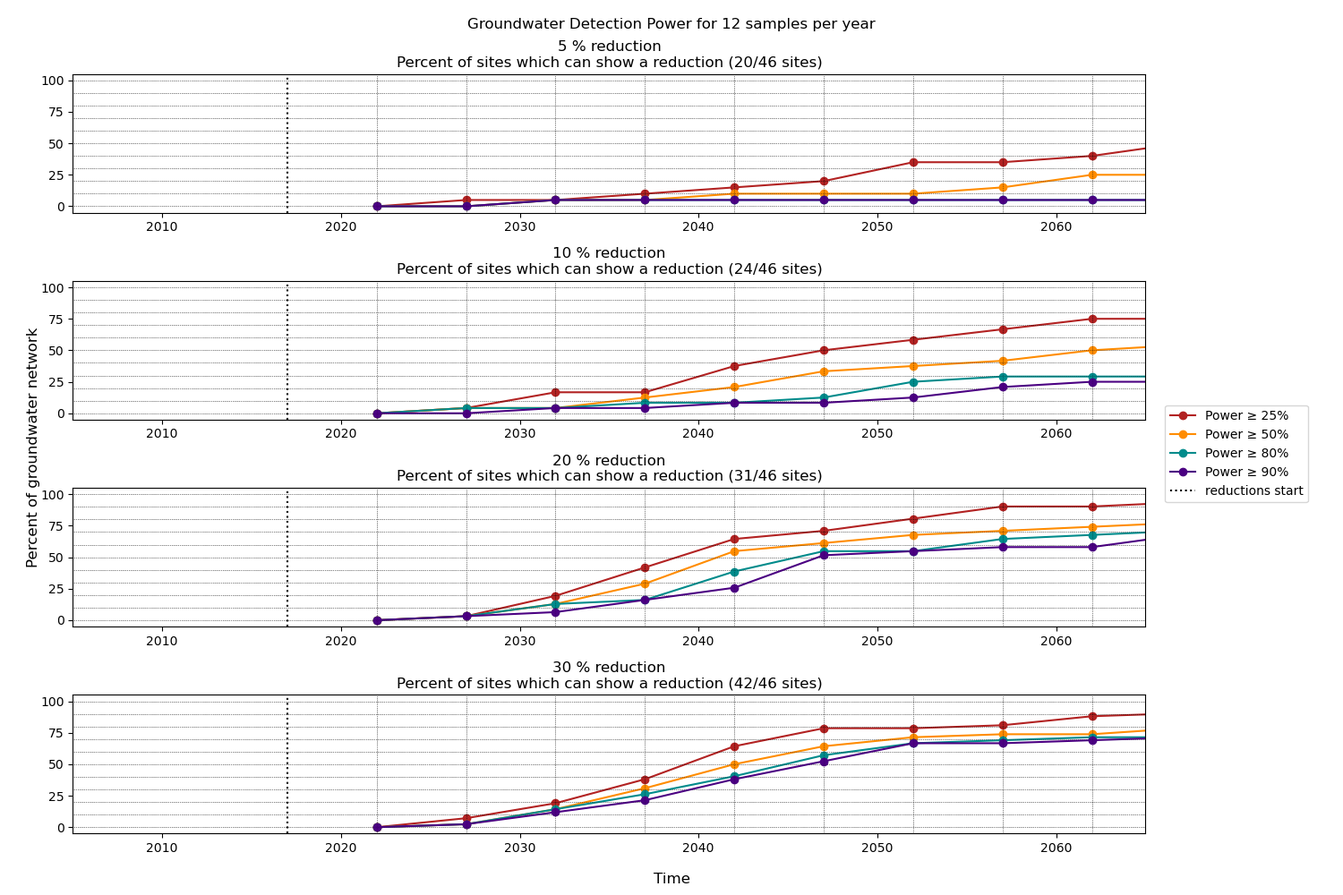
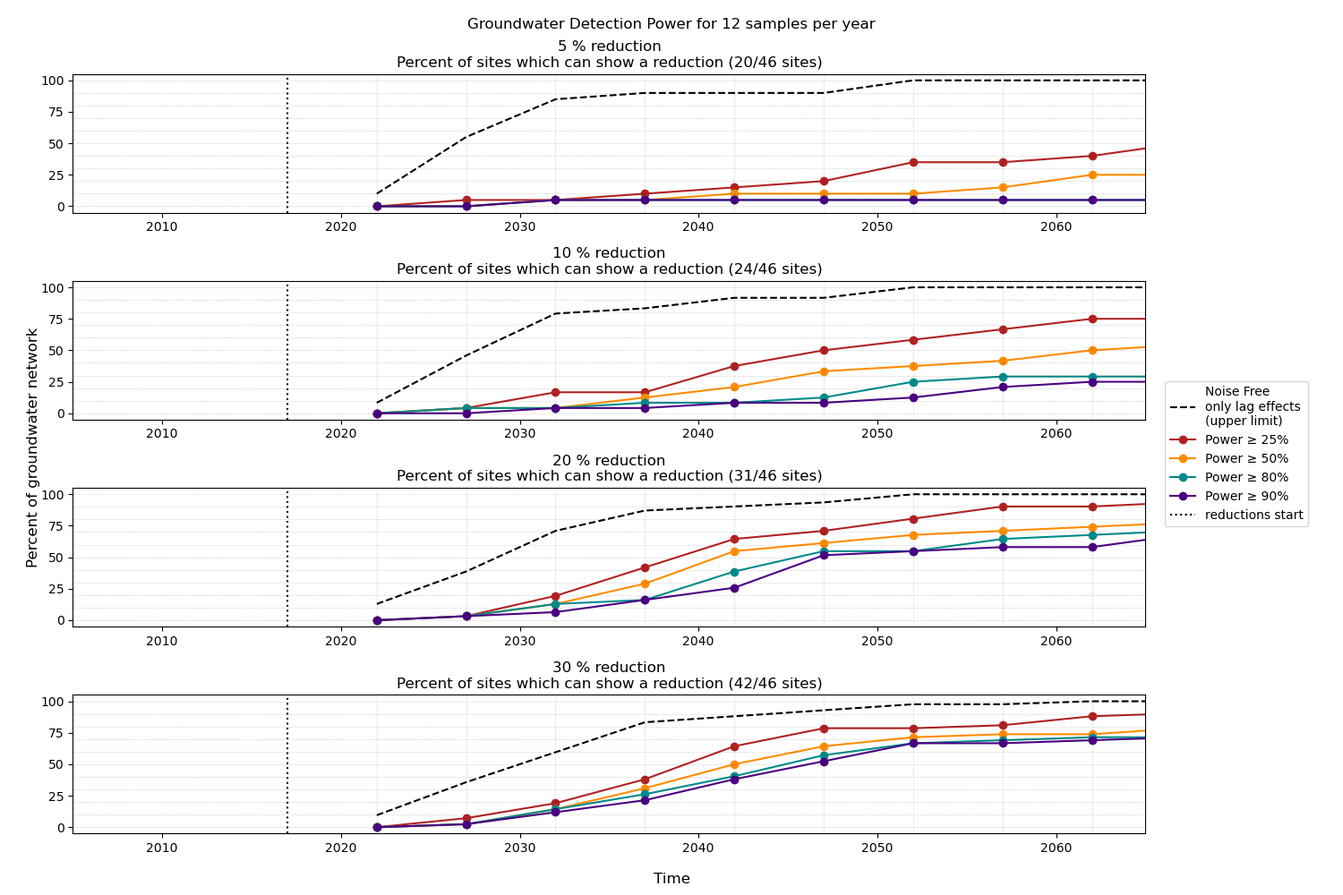
finish methods and results and formating

diff --git a/final_report_tex/custom_sections/results_discussion.tex b/final_report_tex/custom_sections/results_discussion.tex
@@ -3,52 +3,91 @@
 
 \section[Results and Discussion]{Results and Discussion} \label{sec:results}
 
-
+%--------------------------------------------------------------------------------------------------------------
 \subsection[Site results]{Results for Individual Sites} \label{sec:site_results}
 
-We have produced results and figures for each site.  It is beyond the scope of this report to discuss the detection power of each site; however all figures are available in the \gls{proj_repo}. An example of the individual site detection power plots is shown in \autoref{fig:ex_plot}. The figure details the detection power of site M36/3588 assuming a 30\% reduction in nitrate concentrations.  There are two subplots; for both the x-axis is the sampling duration/date. For the top plot the y-axis is \gls{no3n} concentration (mg/l).  The raw sample data and whether those data were included in the analysis (blue included, red/black not included), the predicted source concentration (yellow), the predicted receptor concentration with (gold) and without the implemented reduction (fuchsia). In the lower subplot the y-axis depicts the likelihood that a change in nitrate concentrations will be detected.  The color of the line represents the sampling frequency (e.g. monthly, quarterly, etc.).  Note that the grey line is the detection power assuming no noise (e.g. lag only or an infinite sampling frequency).  The correct interpretation of this plot is that this well would only be able to theoretically detect a change at or after 2027 (grey line).  With quarterly sampling however the noise of the site is such that the detection power is only likely to exceed 80\% in 2037 (gold line).
+
+\begin{wrapfigure}{r}{0.5\textwidth}
+    \begin{breakawaybox}[
+        label={box:wierdresults}]{Counterinuitive Results}
+        Some of the results here are counterintuitive; for instance, in \autoref{fig:sw_mrt} the detection power of reductions in the site are higher with a \gls{mrt} of 10 years than with a \gls{mrt} of 5 years. Additionally, for some receptors (not pictured) the detection power and increase and then subsequently decrease with increasing sampling duration.
+
+        This odd behaviour is due to the statistical method used. Because we are fitting Mann-Kendall to the data to find a reduction as quick (low lag and/or a swift implementation period) can lead to full reductions before an adequate sampling duration has passed to confidently detect the reduction.  The ensuring long flat period, where the true receptor concentration is not changing, leads to a higher p-value in the statistical test and therefore lower detection power.  In these instances the most appropriate approach is to use a counterfactual approach to determine the detection power of the reduction.  This is discussed in \autoref{sec:counterfactual}.
+    \end{breakawaybox}
+\end{wrapfigure}
+
+We have produced results and figures for each site. It is beyond the scope of this report to discuss the detection power of each site; however all figures are available in the \gls{proj_repo}. An example of the individual site detection power plots is shown in \autoref{fig:ex_plot}. The figure details the detection power of site M36/3588 assuming a 30\% reduction in nitrate concentrations. There are two subplots; for both the x-axis is the sampling duration/date. For the top plot the y-axis is \gls{no3n} concentration (mg/l). The raw sample data and whether those data were included in the analysis (blue included, red/black not included), the predicted source concentration (yellow), the predicted receptor concentration with (gold) and without the implemented reduction (fuchsia). In the lower subplot the y-axis depicts the likelihood that a change in nitrate concentrations will be detected. The color of the line represents the sampling frequency (e.g. monthly, quarterly, etc.). Note that the grey line is the detection power assuming no noise (e.g. lag only or an infinite sampling frequency). The correct interpretation of this plot is that this well would only be able to theoretically detect a change at or after 2027 (grey line). With quarterly sampling however the noise of the site is such that the detection power is only likely to exceed 80\% in 2037 (gold line).
 
 \kslfig {0.95\textwidth}{../GeneratedData/power_calc_site_plots/m36_3588_red30}{An example of the individual site detection power plots}{ex_plot}
 
+%--------------------------------------------------------------------------------------------------------------
 \subsubsection[Plateau Sites]{Plateau Sites: Sites where \gls{no3n} concentrations will not decrease under the \textit{a priori} pathway} \label{sec:plateau_results}
 
-Some sites will not show a statistically robust decreasing trend under the \textit{a priori} pathway. We refer to these sites as plateau sites.  An example of a plateau site is shown in \autoref{fig:ex_plateau}. Well L35/0205 is a plateau site because the steep increasing trend in concentration in combination with the significant \gls{mrt} suggest that the source and receptor concentration are at a significant disequilibrium. Therefore, the rather minor reductions (10\%) in the \textit{a priori} pathway will simply lower the eventual steady state concentration (e.g., gold vs fuchsia lines), but will not reduce the concentration below the observed initial concentration (sen slope fit in 2017).
+Some sites will not show a statistically robust decreasing trend under the \textit{a priori} pathway. We refer to these sites as plateau sites. An example of a plateau site is shown in \autoref{fig:ex_plateau}. Well L35/0205 is a plateau site because the steep increasing trend in concentration in combination with the significant \gls{mrt} suggest that the source and receptor concentration are at a significant disequilibrium. Therefore, the rather minor reductions (10\%) in the \textit{a priori} pathway will simply lower the eventual steady state concentration (e.g., gold vs fuchsia lines), but will not reduce the concentration below the observed initial concentration (sen slope fit in 2017).
 
 \kslfig {.95\textwidth}{../GeneratedData/power_calc_plateau_sites/l35_0205_red10}{An example of a Plateau Site}{ex_plateau}
 
 These plateau sites can cause a significant challenge in detection of \gls{pc1} reductions. At best, we have an estimate of the steady state concentration. Therefore, it is difficult to understand whether any discrepancy between observed steady state concentration (once concentration levels off) and the predicted steady state concentration (e.g., the fuchsia line in \autoref{fig:ex_plateau}) is due to issues with the implementation of \gls{pc1} or inaccuracies in the estimate of steady state concentration. These sites will require more sophisticated statistical analysis to determine whether the \gls{pc1} reductions have been implemented.
 
-% todo discuss the geo spread of the plateau sites, add to appenix
+\input{tables/plat_tab}
 
-
-
+\autoref{fig:plateau_locs} shows the location of these plateau sites and at and below what reduction level they will plateau. Note we did not include the surface water features here as there is so much uncertainty surrounding their \gls{mrt}.  \autoref{tab:plateau} shows the percent of the groundwater network that will not show a decrease in \gls{no3n} concentrations at a given reduction level in the source. For example, 57\% of the groundwater network will not show a decrease in \gls{no3n} concentrations if the source is reduced by 5\%. This is an important result as it suggests that the \gls{pc1} reductions may not yield steady state concentrations below 2017 concentrations for a significant portion of groundwater network.
 
 \begin{landscape}
-    \kslfig {0.95\textwidth}{../GeneratedData/geospatial_plots/plateau_locs}{The \gls{no3n} reduction at which a given site will not show a negaitve slope but instead will reach a lower steady state concentration (wells only)}{plateau_locs}
+    \kslfig {1.25\textwidth}{../GeneratedData/geospatial_plots/plateau_locs}{The \gls{no3n} reduction at which a given site will not show a negaitve slope but instead will reach a lower steady state concentration (wells only)}{plateau_locs}
 \end{landscape}
 
+%--------------------------------------------------------------------------------------------------------------
 \subsection[Mean Residence Time Impacts]{Mean Residence Time, steady state concentration, and detection power} \label{sec:mrt_results}
 
-% todo discuss the impact of assumed MRT on surface water sites --> link to BASE
+Our use of a set of indicative \gls{mrt} values for surface water features allows us to easily demonstrate the importance of \gls{mrt} on both detection powers and steady state \gls{no3n} concentrations. \autoref{fig:sw_mrt} demonstrates the impact of assumed \gls{mrt} on the interpretation of the steady state concentration in Harts Creek.  Harts creek is a small spring-fed tributary of Te Waihora (Lake Ellesmere) on the southwestern side of the lake. There is a substantial historical record of increasing \gls{no3n} concentrations, but there is no evidence on the age of the water within the creek. Our simple source concentration modelling (see \autoref{subsec:detection_power_methods}) and the data prior to 2017 suggests that the peak steady state concentrations in the receptor (without reductions) could range between 7.6 to 12.0 mg/l \gls{no3n}.  This is a large range and the maximum and minimum values have significantly different levels of concern --- the maximum possible value is beyond the drinking water limit.  The uncertainty in the likely maximum peak concentration in this receptor could be significantly constrained with a relatively cost-effective \gls{mrt} sample.
+
+Additionally, the \gls{mrt} has a significant implication on the ability to detect \gls{pc1} \gls{no3n} reductions. If the \gls{mrt} is relatively low (5-10 years) then it is feasible to detect \gls{pc1} reductions by 2032 with current (monthly) or slightly higher sampling frequency; however a higher \gls{mrt} of 20 years significantly reduces detectability. With a \gls{mrt} of 30 years, \gls{pc1} reductions are unlikely to result in a decrease in \gls{no3n} concentrations (see \autoref{sec:plateau_results}) relative to their 2017 concentrations. Note that the counterintuitive result that the detection power with \gls{mrt} of 5 years is lower than that of \gls{mrt} 10 years is discussed in \autoref{box:wierdresults}.
+
+Finally, we must comment that our method for detecting the maximum concentration is fairly simplistic and is likely to be biased.  Further, more complex, statistical analysis could provide a much better estimate of the likely maximum concentration. Such analysis is beyond the scope of this report; however, the results here do demonstrate the importance of \gls{mrt} on the interpretation of the steady state concentration and the detection power of \gls{pc1} reductions.
 
 \kslfig {0.95\textwidth}{../figures/mrt_matters.png}{The impact of assumed \gls{mrt} on the steady state \gls{no3n} concentrations and the potential to detect \gls{pc1} reductions}{sw_mrt}
 
-% todo counter factual stuff  detection too low ... high level break away box??
-
-
+%--------------------------------------------------------------------------------------------------------------
 \subsection[network detection power]{Network Level Detection Power} \label{sec:network_results}
+\kslfig {0.95\textwidth}{../GeneratedData/geospatial_plots/detect_power_locs_red20_freq4}{Sampling duration until the probability of detecting a reduction is $\geq80\%$ }{timetodetect}
+
+\autoref{fig:network20} shows the sampling duration required to detect \gls{pc1} reductions (assuming a full 20\% reduction) with 80\% probability using quarterly sampling. The black dashed line in \autoref{fig:network4per} shows the percentage of the network which can detect \gls{pc1} reductions assuming that the true receptor concentration is known. This analysis includes the including the effects of lag, but excludes the obscuration of the reductions by \gls{no3n} noise.
+\autoref{fig:timetodetect} provides a geospatial representation of \autoref{fig:network20} and the 20\% subplot of \autoref{fig:network4per}. In combination these figures shows that the vast majority of the groundwater network will not be able to detect \gls{pc1} reductions at quarterly sampling. Increasing the sampling frequency can significantly increase the detection power of the network, but there is a maximum detectability set by the lag component.
+
+These results are consistent with the observation that very few wells in the catchment have a statistically significant reducing trend (only 3 of 46 sites in this study, and only 9 of 102 sites provided by \gls{ecan}). Given our results the lack of reducing \gls{no3n} concentrations cannot inform whether \gls{pc1} reductions are being successfully implemented. At current sampling rates we should not expect to see \gls{pc1} reductions in more than half of the network (which are expected to have reductions, see \autoref{sec:plateau_results}) until 2062. Increasing to weekly or monthly sampling would improve the detection power of the network, and we could expect detection in at least 50\% of the network by 2042 and 2037, respectively.
+
 
 \begin{landscape}
 
-    \kslfig {0.95\textwidth}{../GeneratedData/overview_plots/well_detection_overview_red20}{The proportion of the groundwater network whick is likely to detect the full \gls{pc1} reductions (20\%)}{network20}
+    \kslfig {1.25\textwidth}{../GeneratedData/overview_plots/well_detection_overview_red20}{The proportion of the groundwater network whick is likely to detect the full \gls{pc1} reductions (20\%)}{network20}
 
-    \kslfig {0.95\textwidth}{../GeneratedData/overview_plots/well_detection_overview_freq4}{The propotaion of the groundwater network which is likely to detect reduction at the current quarterly sampling frequency}{network4per}
+    \kslfig {1.25\textwidth}{../GeneratedData/overview_plots/well_detection_overview_freq4}{The propotaion of the groundwater network which is likely to detect reduction at the current quarterly sampling frequency}{network4per}
+
+\kslfig {1.25\textwidth}{../GeneratedData/overview_plots/well_detection_overview_red10}{The proportion of the groundwater network whick is likely to detect the full \gls{pc1} reductions (10\%)}{network10}
 
 \end{landscape}
 
-\kslfig {0.95\textwidth}{../GeneratedData/geospatial_plots/detect_power_locs_red20_freq4}{Sampling duration until the probability of detecting a reduction is $\geq80\%$ }{timetodetect}
+\autoref{fig:network4per} shows the effect of different reductions on detection power with a quarterly sampling frequency. Note that these figures exclude the plateau sites (see \autoref{sec:plateau_results} and \autoref{tab:plateau}). If we assume that dairy farming only makes up 50\% of the source area for these wells (i.e., 10\% reductions), then 1) nearly 50\% of the network will never have \gls{no3n} concentrations below 2017 levels, and with quarterly sampling we should not expect to see \gls{pc1} reductions in more than 10\% of the remaining network. Increasing sampling frequencies to monthly or weekly would significantly improve the probability of detection these changes(\autoref{fig:network10}).  Note that increasing sampling frequency will not impact the plateau sites.
 
-%% todo Identify the sites that are most important for detection power
-%% todo counter factual detection power to see if people are on /off track
+%--------------------------------------------------------------------------------------------------------------
+\subsection[counterfactual approach]{The benefits of a counterfactual approach} \label{sec:counterfactual}
 
+The analysis presented here is designed to answer the question: ``How long will it take to detect any reduction in \gls{no3n} at our existing receptor?`` This is a useful question, but it is not the only question that can be asked. For example, we could ask: ``How long will it take to detect a full implementation of \gls{pc1} 20\% reduction in \gls{no3n} at our existing receptor?`` or ``How long before we can tell that we are on track for at least a 10\% reduction in a well's source zone has been implemented?``.
+These questions require a different statistical approach --- a counterfactual approach. Essentially, the question answered by a counterfactual approach is: ``How long until we are confident that pathway 1 and pathway 2 are significantly different?`` Unfortunately a counterfactual approach has not yet been implemented in the groundwater detection power calculator %todo cite package
+; however, the development of this will likely be completed in 2024. It is worth noting that any uncertainty in the `true` source concentration, which is typically uncertain, is more likely to yield additional uncertainty in the counterfactual detection power as the absolute difference between two pathways is important while only the relative change is necessary for the `reduction` detection power.
 
+Finally, both the `reduction` and `counterfactual` detection power are different from asking ``Has the receptor seen a full 20\% reduction in concentration?``. The issue here is that to confirm a full 20\% reduction requires the receptor to be at or at least very close to steady state. Depending on the distribution of the water age it can take significantly longer than the \gls{mrt} for a receptor to reach steady state.
+
+%--------------------------------------------------------------------------------------------------------------
+\subsection[network improvements]{How to improve the existing network}
+
+Our results suggest that the current monitoring network is likely to require a significant amount of time in order to detect the \gls{pc1} \gls{no3n} reductions. A typical suggestion to improve the detection of changes is to identify bespoke monitoring at sites which has a far lower \gls{mrt} than the rest of the network. Identifying reducing \gls{no3n} concentrations in new, younger wells would provide confidence that \gls{no3n} concentrations are going in the right direction (down), but unfortunately, such results could not prove that the changes were due to \gls{pc1}. \gls{pc1} reductions have, theoretically, already been implemented. Some young groundwater could already be approaching steady state, so depending on the \gls{mrt} no change in concentration could be consistent with successfully implemented \gls{pc1} reductions.
+
+Instead, we suggest that the best approach to improve the unambiguous detection of \gls{pc1} reductions is to:
+\begin{enumerate}
+    \item Increase the certainty of the \gls{mrt} estimates in groundwater detection network; only c. 30\% of groundwater sites had a \gls{mrt} assessment (e.g., via tritium).  The remaining 60\% were estimated from nearby wells, which introduces a significant amount of uncertainty. Further age assessments would significantly improve the certainty of the network's detection power and allow increased frequency sampling to occur at sites which are likely to detect the change.
+    \item Increase sampling at sites that this analysis (or additional analysis with additional \gls{mrt} assessments) show a suitably high probability of detecting \gls{pc1} reductions. %todo below cite olw guidance doc
+    \item similar to 1. the surface water network has a significant amount of information about the catchment and acts as an integrate which alleviates some of the challenges of the spatial representativeness of the groundwater network (); however the utility of this information is sabotaged by the lack of \gls{mrt} assessments. Understanding the age distribution and the relationship between the age distribution and river/stream stage/flow would unlock the power of these sites.
+    \item Finally, more sophisticated statistical analysis could be used to extract more information from the existing data without waiting decades for additional information.
+\end{enumerate}

diff --git a/detection_power/plot_individual_detection_plots.py b/detection_power/plot_individual_detection_plots.py
@@ -300,6 +300,8 @@ def plot_well_overview_freq(outpath, freq, reductions=reductions):
     for power_ax, reduction in zip(power_axs, reductions):
         metadata = get_n_metadata()
         detect_noisy = pd.concat([get_no_trend_detection_power(), get_trend_detection_power()])
+        percent_limits = [25, 50, 80, 90]
+        detect_not_noisy = pd.concat([get_no_trend_detection_power_no_noise(), get_trend_detection_power_no_noise()])
 
         sites = metadata.loc[metadata.type != 'stream'].index
         sites = sites[np.in1d(sites, get_final_sites())]
@@ -307,19 +309,35 @@ def plot_well_overview_freq(outpath, freq, reductions=reductions):
         sites = sites[~np.in1d(sites, get_all_plateau_sites(reduction=reduction))]
 
         use_samp_durs = pd.to_datetime(f'{start_year}-01-01') + pd.to_timedelta(samp_durs * 365.25, unit='day')
-        percent_limits = [25, 50, 80, 90]
         colors = ['firebrick', 'darkorange', 'darkcyan', 'indigo']
 
-        fig.suptitle(f'Groundwater Detection Power for {freq} samples per year')
+        fig.suptitle(f'Groundwater Detection Power for {abs(freq)} samples per year')
         power_ax.set_title(f'{int(reduction * 100)} % reduction\n'
                            f'Percent of sites which can show a reduction ({len(sites)}/{ngw_sites} sites)')
+
+        # not noisy
+        plt_data = []
+        for d in samp_durs:
+            idx = (
+                    np.in1d(detect_not_noisy['site'], sites)
+                    & (detect_not_noisy['samp_years'] == d)
+                    & (detect_not_noisy['samp_per_year'] == abs(freq))
+                    & (detect_not_noisy['reduction'] == reduction)
+            )
+            assert idx.sum() == len(sites)
+            idx = idx & (detect_not_noisy['power'] >= 80)
+            plt_data.append(idx.sum() / len(sites) * 100)
+
+        power_ax.plot(use_samp_durs, plt_data, ls='--', label=f'Noise Free\nonly lag effects\n(upper limit)', c='k')
+
+        # noisy data
         for pl, c in zip(percent_limits, colors):
             plt_data = []
             for d in samp_durs:
                 idx = (
                         np.in1d(detect_noisy['site'], sites)
                         & (detect_noisy['samp_years'] == d)
-                        & (detect_noisy['samp_per_year'] == freq)
+                        & (detect_noisy['samp_per_year'] == abs(freq))
                         & (detect_noisy['reduction'] == reduction)
                 )
                 assert idx.sum() == len(sites)
@@ -327,12 +345,13 @@ def plot_well_overview_freq(outpath, freq, reductions=reductions):
                 plt_data.append(idx.sum() / len(sites) * 100)
 
             power_ax.plot(use_samp_durs, plt_data, marker='o', label=f'Power ≥ {pl}% ', c=c)
-            for v in np.arange(0, 110, 10):
-                power_ax.axhline(v, color='k', ls=':', lw=0.5, alpha=0.3)
-            power_ax.set_ylim(-5, 105)
-            for d in samp_durs:
-                d = pd.to_datetime(f'{start_year}-01-01') + pd.to_timedelta(d * 365.25, unit='day')
-                power_ax.axvline(d, color='k', ls=':', lw=0.5, alpha=0.3)
+
+        for v in np.arange(0, 110, 10):
+            power_ax.axhline(v, color='k', ls=':', lw=0.5, alpha=0.3)
+        power_ax.set_ylim(-5, 105)
+        for d in samp_durs:
+            d = pd.to_datetime(f'{start_year}-01-01') + pd.to_timedelta(d * 365.25, unit='day')
+            power_ax.axvline(d, color='k', ls=':', lw=0.5, alpha=0.3)
         power_ax.axvline(pd.to_datetime(f'{start_year}-01-01'), ls=':', label='reductions start', color='k')
         power_ax.set_xlim(pd.to_datetime('2005-01-01'), pd.to_datetime('2065-01-01'))
     leg_ax.legend(*power_axs[0].get_legend_handles_labels(), loc='center left')
@@ -352,8 +371,8 @@ def plot_all_overivew(outdir):
 
 if __name__ == '__main__':
     rerun = False
+    plot_all_overivew(generated_data_dir.joinpath('overview_plots'))
     if rerun:
-        plot_all_overivew(generated_data_dir.joinpath('overview_plots'))
         plot_all(generated_data_dir.joinpath('power_calc_site_plots'))
         plot_all_plateau_sites(generated_data_dir.joinpath('power_calc_plateau_sites'))
         plot_stream_detection(generated_data_dir.joinpath('power_mrt_comp'))

diff --git a/final_report_tex/custom_sections/methodology.tex b/final_report_tex/custom_sections/methodology.tex
@@ -1,15 +1,11 @@
 %! Author = matt_dumont
 %! Date = 14/12/23
-
+%------------------------------------------------------------------
 \section[Methods]{Study Methodology}   \label{sec:methods}
-
+%------------------------------------------------------------------
 \subsection[Data]{Receptors, Data processing, and analysis} \label{sec:data}
 
 \gls{ecan} provided us with \gls{no3n} concentration data for approximately 100 sites which included groundwater monitoring wells, spring fed streams and the Selwyn Waikirikiri River at Coes Ford. The Selwyn Waikirikiri River has both hill fed and spring fed components, but in the lower catchment it is a gaining stream and the low flows are dominated by spring fed flow. We worked collaboratively with \gls{ecan} to select a subset of sites for analysis (\autoref{fig:sitelocs}). The raw data and all outputs are available in the \gls{proj_repo} and a summary table of the data is available in \autoref{appx:data} Groundwater age data (\gls{mrt} and age distribution parameters) were provided by both \gls{ecan} and \gls{olw}.
-
-\begin{landscape}
-    \kslfig{0.95\textwidth}{../figures/selwyn_sites}{Final Site Locations}{sitelocs}
-\end{landscape}
 
 The data was processed as follows:
 \begin{enumerate}
@@ -24,7 +20,12 @@ The data was processed as follows:
 
 \kslfig {0.90\textwidth}{figures/m36_8187}{Site M36/8187: note the "true" outliers (black) and the trend outliers(red)}{ex_outlier_trend}
 
+\begin{landscape}
+    \kslfig{1.25\textheight}{../figures/selwyn_sites}{Final Site Locations}{sitelocs}
+\end{landscape}
 
+
+%------------------------------------------------------------------
 \subsection[Pathways]{\textit{A. priori} Pathways} \label{subsec:apriori}
 
 In consultations with \gls{ecan} we generated the following \textit{a. priori} pathways for the implementation of \gls{no3n} reductions:
@@ -38,6 +39,7 @@ In consultations with \gls{ecan} we generated the following \textit{a. priori} p
 
 While \gls{pc1} specifies the reductions, it does not apply to all land parcels. The source zones for many wells and spring fed streams are poorly constrained. Providing multiple pathways provides an efficient mechanisms to explore the potential impact of different source zones and mitigation effectiveness. A higher than expected reduction pathway was provided to explore the potential impact of a more effective than expected implementation of \gls{pc1}.
 
+%------------------------------------------------------------------
 \subsection[Detection Power Methods] {Detection Power Methods} \label{subsec:detection_power_methods}
 
 The method to calculate the detection power of a given site was implemented after % todo cite my paper

diff --git a/final_report_tex/tables/plat_tab.tex b/final_report_tex/tables/plat_tab.tex
@@ -1,0 +1,17 @@
+%! Author = matt_dumont
+%! Date = 16/12/23
+\begin{wraptable}{R}{0.4\textwidth}
+    \centering
+    \caption{Percent of the groundwater network that will not show decreased in the receptor at a given reduction level in the source}
+    \label{tab:plateau}
+    \begin{ksltable}[
+    ]{
+        colspec = {|c|c|},
+    }
+        Reduction & Plateau sites \\
+        5\% & 57\% \\
+        10\% & 48\% \\
+        20\% & 33\% \\
+        30\% & 9\% \\
+    \end{ksltable}
+\end{wraptable}

diff --git a/site_selection/get_n_data.py b/site_selection/get_n_data.py
@@ -544,6 +544,7 @@ def get_final_sites():
 
 if __name__ == '__main__':
     meta = get_n_metadata(False)
+    final_data = meta.loc[get_final_sites()]
     n = get_all_n_data()
     for k in ['keep0',
               'lisa_keep', 'Lisa_Comment_bool', 'keep0|lisa', '~keep0&lisa']:

diff --git a/final_report_tex/custom_sections/appendix.tex b/final_report_tex/custom_sections/appendix.tex
@@ -7,7 +7,7 @@
     \appendix
 
     \section[Data Table]{Summary table of data} \label{appx:data}
-    % todo include plataue limits.
+    % todo include plataue reduction limits.
 
 
 

diff --git a/final_report_tex/tables/version_control_table.tex b/final_report_tex/tables/version_control_table.tex
@@ -1,6 +1,8 @@
 %! Author = matt_dumont
 %! Date = 7/12/23
 
+% todo fill out!
+
 \begin{table}[!ht] % !ht = here or top of page
     \label{tab:vc_table}
     \begin{ksltable}[
